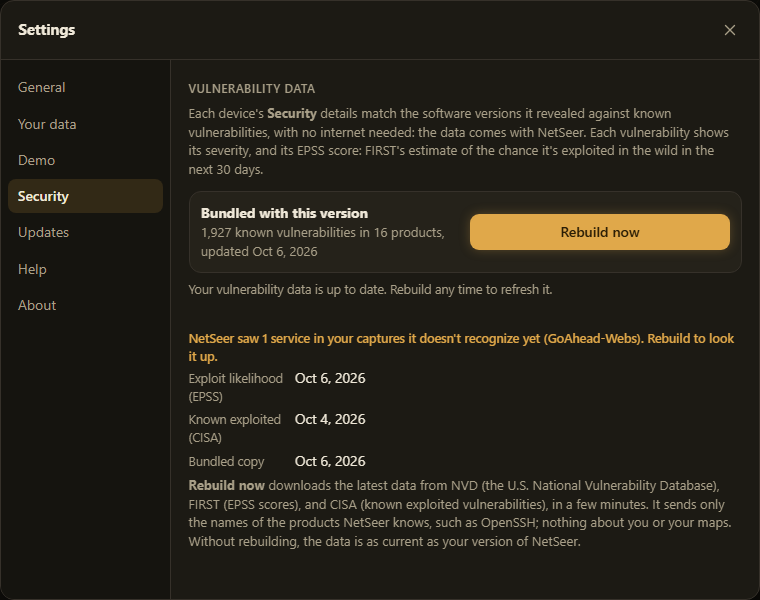
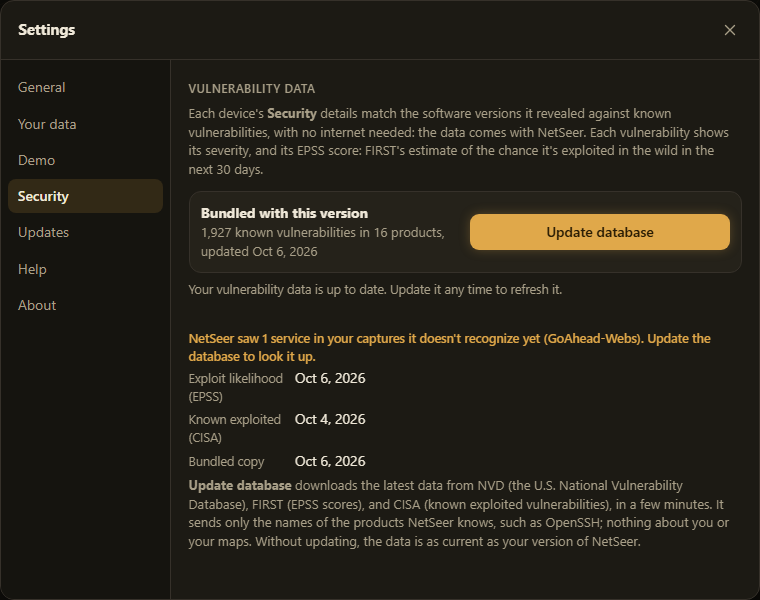
Rename the Security rebuild button to Update database

diff --git a/src/netseer/web/index.html b/src/netseer/web/index.html
@@ -530,7 +530,7 @@
                 <strong id="vdb-inuse">&hellip;</strong>
                 <span id="vdb-detail" class="hint"></span>
               </div>
-              <div id="vdb-online"><button id="vdb-update" class="btn primary" type="button">Rebuild now</button></div>
+              <div id="vdb-online"><button id="vdb-update" class="btn primary" type="button">Update database</button></div>
             </div>
             <p id="vdb-cta" class="vdb-cta hidden"></p>
             <div id="vdb-progress" class="hidden">
@@ -540,7 +540,7 @@
             <p id="vdb-status" class="update-status" role="status" aria-live="polite"></p>
             <p id="vdb-extra" class="vdb-extra hidden"></p>
             <dl id="vdb-facts" class="facts"></dl>
-            <p class="hint"><strong>Rebuild now</strong> downloads the latest data from NVD (the U.S. National Vulnerability Database), FIRST (EPSS scores), and CISA (known exploited vulnerabilities), in a few minutes. It sends only the names of the products NetSeer knows, such as OpenSSH; nothing about you or your maps. Without rebuilding, the data is as current as your version of NetSeer.</p>
+            <p class="hint"><strong>Update database</strong> downloads the latest data from NVD (the U.S. National Vulnerability Database), FIRST (EPSS scores), and CISA (known exploited vulnerabilities), in a few minutes. It sends only the names of the products NetSeer knows, such as OpenSSH; nothing about you or your maps. Without updating, the data is as current as your version of NetSeer.</p>
             <p id="vdb-hosted" class="hint hidden">This online copy uses the vulnerability data that came with its version. Installed copies can update it.</p>
           </section>
 
@@ -677,6 +677,6 @@
         <label class="egg-line"><span id="egg-prompt"></span><input id="egg-input" type="text" autocomplete="off" autocapitalize="off" spellcheck="false" aria-label="Command" /></label>
       </div>
     </div>
-    <script src="/static/app.js?v=ui46"></script>
+    <script src="/static/app.js?v=ui47"></script>
   </body>
 </html>

diff --git a/src/netseer/web/app.js b/src/netseer/web/app.js
@@ -4565,7 +4565,7 @@ function renderDiscoverable() {
   const found = (info?.discovered || []).filter((d) => d.found);
   if (security.discoverable?.length) {
     box.className = "vdb-extra warn";
-    box.textContent = `NetSeer saw ${plural(security.discoverable.length, "service")} in your captures it doesn't recognize yet (${names(security.discoverable)}). Rebuild to look ${security.discoverable.length > 1 ? "them" : "it"} up.`;
+    box.textContent = `NetSeer saw ${plural(security.discoverable.length, "service")} in your captures it doesn't recognize yet (${names(security.discoverable)}). Update the database to look ${security.discoverable.length > 1 ? "them" : "it"} up.`;
   } else if (found.length) {
     box.className = "vdb-extra good";
     box.textContent = `Looked up from your captures: ${names(found)}.`;
@@ -4603,12 +4603,12 @@ function syncRefreshButton() {
   btn.classList.toggle("attention", online && (stale || newServices));
   cta.classList.remove("hidden", "good", "warn");
   if (!online) {
-    cta.textContent = "Connect to the internet, then rebuild to get the latest vulnerability data.";
+    cta.textContent = "Connect to the internet, then update the database to get the latest vulnerability data.";
   } else if (stale) {
-    cta.textContent = `This data is ${plural(age, "day")} old. Rebuild now to check devices against the latest known vulnerabilities.`;
+    cta.textContent = `This data is ${plural(age, "day")} old. Update the database to check devices against the latest known vulnerabilities.`;
     cta.classList.add("warn");
   } else if (age != null) {
-    cta.textContent = age <= 1 ? "Your vulnerability data is up to date. Rebuild any time to refresh it." : `Your vulnerability data is ${plural(age, "day")} old. Rebuild any time to refresh it.`;
+    cta.textContent = age <= 1 ? "Your vulnerability data is up to date. Update it any time to refresh it." : `Your vulnerability data is ${plural(age, "day")} old. Update it any time to refresh it.`;
     cta.classList.add("good");
   } else {
     cta.classList.add("hidden");

diff --git a/docs/netseer-how-to.md b/docs/netseer-how-to.md
@@ -47,7 +47,7 @@ The **cog** in the top bar. A dot on it means a newer release is out.
 | **General** | Theme; **Scroll to zoom** speed (Gentle, Normal, Quick); **Show SSIDs under access points**; **Fade unrelated devices on hover** (off by default); **Time**: time zone (this computer, UTC, or any) and 12- or 24-hour clock |
 | **Your data** | Count of saved maps and devices; whether storage is protected from automatic cleanup, with **Protect my maps** if not; **Back up all maps** (one JSON file with maps, names, notes, edits, positions, and preferences); **Restore a backup…** (replaces what's saved here; asks first); **Clear all data…** (asks first) |
 | **Demo** | The sample captures, each with **Open** (or **Show** once opened); **Compare the branch office samples** opens a pair a week apart and sets up **Compare surveys** |
-| **Security** | The vulnerability data for the Security findings (bundled, or downloaded), with its date; **Rebuild now** (installed copies, highlighted when you're online) downloads the latest from NVD, FIRST EPSS, and CISA, and looks up products seen in your captures that aren't recognized yet, sending only product names |
+| **Security** | The vulnerability data for the Security findings (bundled, or downloaded), with its date; **Update database** (installed copies, highlighted when you're online) downloads the latest from NVD, FIRST EPSS, and CISA, and looks up products seen in your captures that aren't recognized yet, sending only product names |
 | **Updates** | Version and install type; **Check for updates**; **Check when NetSeer opens** (off by default, at most once a day); the current release and any newer ones, each with **Release notes** and **Reinstall** or **Update**; older ones are folded under **Earlier versions**: pick one from the list for its **Release notes** and **Roll back**. In the desktop app these open the update wizard: release notes and an optional backup, then a download checked against GitHub's SHA-256, then **Restart and update** (NetSeer closes, installs, and reopens). From source, the button copies a `uv tool install --force` command for that version. The online copy updates itself and shows no list. |
 | **Help** | **Take the tour**, **Keyboard shortcuts**, the user guide, **Report a problem** (a new GitHub issue with your version filled in) |
 | **About** | Version, how NetSeer is running, links, and component licenses |
@@ -173,7 +173,7 @@ Every device's **Details** has a **Security** section (also `POST /api/security/
 - **Known vulnerabilities** from software versions in banners (SSH greeting, HTTP `Server`/`X-Powered-By`). Each CVE shows CVSS severity, **EPSS** (chance of exploitation in the next 30 days), and a **Known exploited** flag from CISA KEV. No version means no match — NetSeer never guesses from the maker. A distribution banner (Ubuntu, Debian, …) is noted, since those backport fixes without changing the version.
 - **Wi-Fi handshakes**: a captured WPA four-way handshake is listed on both the station and the access point, with which of messages 1–4 were seen. If enough was captured (message 2 plus 1 or 3) on a PSK network, it's flagged as crackable offline. WPA3-SAE and 802.1X handshakes are listed but not flagged.
 - **Layers → Security → Shade by security** tints each device by its most serious finding, with counts.
-- The data is bundled (works offline). **Settings → Security → Rebuild now** refreshes it (highlighted when you're online, and more so when the data is old or when a capture shows a product NetSeer doesn't recognize yet). A rebuild resolves such products against NVD and remembers them, so they match on future maps.
+- The data is bundled (works offline). **Settings → Security → Update database** refreshes it (highlighted when you're online, and more so when the data is old or when a capture shows a product NetSeer doesn't recognize yet). An update resolves such products against NVD and remembers them, so they match on future maps.
 
 ## Timeline
 

diff --git a/docs/user-guide.md b/docs/user-guide.md
@@ -130,7 +130,7 @@ Every device's details include a **Security** section. NetSeer only reports what
 - **Wi-Fi handshakes** are noted when a WPA four-way handshake between a device and its access point was captured. If enough was captured on a password network, it's flagged: someone with the capture could try the Wi-Fi password offline.
 - **Shade the map by security:** in **Layers → Security**, turn on **Shade by security** to tint every device by its most serious finding (red for Critical down to blue for Low), with a count of each.
 
-The vulnerability data is bundled with NetSeer, so this works with no internet. Keep it current under **Settings → Security** (see [Settings](#settings-updates-and-the-tour)) — a rebuild also looks up any product it saw in your captures that wasn't in the data yet, so unusual services get covered over time.
+The vulnerability data is bundled with NetSeer, so this works with no internet. Keep it current under **Settings → Security** (see [Settings](#settings-updates-and-the-tour)) — an update also looks up any product it saw in your captures that wasn't in the data yet, so unusual services get covered over time.
 
 To try it, open **Settings → Demo** and open **Small office: security check**.
 
@@ -340,9 +340,9 @@ Click the **cog** at the right of the top bar. A dot on the cog means a newer ve
 
 **Demo.** Sample captures to try NetSeer with; see [Open your captures](#open-your-captures).
 
-**Security.** Shows the vulnerability data NetSeer uses for the Security findings, and when it was built. **Rebuild now** downloads the latest from NVD, FIRST (EPSS), and CISA in a few minutes; it sends only product names, nothing about you or your maps. It also looks up products NetSeer saw in your captures but didn't recognize — when it finds one, it says so ("NetSeer saw 1 service it doesn't recognize yet…") and the button lights up. On an installed copy the button also brightens when the data is getting old, and is held back with a reason when you're offline. Without rebuilding, the data is as current as your version of NetSeer.
+**Security.** Shows the vulnerability data NetSeer uses for the Security findings, and when it was built. **Update database** downloads the latest from NVD, FIRST (EPSS), and CISA in a few minutes; it sends only product names, nothing about you or your maps. It also looks up products NetSeer saw in your captures but didn't recognize — when it finds one, it says so ("NetSeer saw 1 service it doesn't recognize yet…") and the button lights up. On an installed copy the button also brightens when the data is getting old, and is held back with a reason when you're offline. Without updating, the data is as current as your version of NetSeer.
 
-![Settings, Security: the vulnerability data in use and a highlighted Rebuild now button](images/settings-security.png)
+![Settings, Security: the vulnerability data in use and a highlighted Update database button](images/settings-security.png)
 
 **Your data.** Shows how many maps and devices are saved in this browser.
 

diff --git a/README.md b/README.md
@@ -122,7 +122,7 @@ From the frames and survey rows, NetSeer extracts:
 
 - **A map that lays itself out**, eight ways: **by network name** (the default: a box per SSID with its access points and their clients), **by subnet**, **by connection**, **by location** (survey GPS), **by channel**, **top-down hierarchy**, **by signal strength**, or **by maker**. Drag anything to rearrange; positions are saved for each arrangement. **Tidy layout** resets them.
 - **Details for every device.** Click one to see what NetSeer found, rename it, add a caption and notes, copy any value, or edit any field. Edits are marked and can be reset.
-- **Security findings for every device.** NetSeer checks what the capture shows — open or WEP Wi-Fi, WPS, Telnet, FTP, SNMP, old TLS, and more — and matches software versions it sees in banners (OpenSSH, Apache, nginx, …) against known vulnerabilities. Each vulnerability shows its severity and its EPSS score: the estimated chance it is exploited in the wild in the next 30 days, with CISA "known exploited" flagged. If a WPA four-way handshake was captured, that is noted on the devices too. The data comes bundled, so it works offline; **Settings → Security** rebuilds it from NVD, FIRST, and CISA, and also looks up any products it saw in your own captures that it didn't already recognize.
+- **Security findings for every device.** NetSeer checks what the capture shows — open or WEP Wi-Fi, WPS, Telnet, FTP, SNMP, old TLS, and more — and matches software versions it sees in banners (OpenSSH, Apache, nginx, …) against known vulnerabilities. Each vulnerability shows its severity and its EPSS score: the estimated chance it is exploited in the wild in the next 30 days, with CISA "known exploited" flagged. If a WPA four-way handshake was captured, that is noted on the devices too. The data comes bundled, so it works offline; **Settings → Security → Update database** refreshes it from NVD, FIRST, and CISA, and also looks up any products it saw in your own captures that it didn't already recognize.
 - **Compare surveys for changes.** Pick a baseline and one or more later surveys, each with its own time window (a morning baseline against an afternoon survey, say), and NetSeer maps what changed: devices that left a network or disappeared are shaded red, ones that joined or are new green, and other changes blue, such as moving networks, a randomized MAC that rotated, or a possible rogue access point.
 - **Several maps at once.** Each capture becomes a map. Copy, cut, paste, and move devices between maps (an access point brings its clients), merge maps, and set devices aside in **Unwanted**. Undo and Redo go 30 steps either way, and only ever change your maps.
 - **An organized sidebar.** Drag maps and surveys to reorder them, or drop one onto a map to merge it. Right-click for rename, merge, remove, and delete. Drag the sidebar's edge to make it wider.
